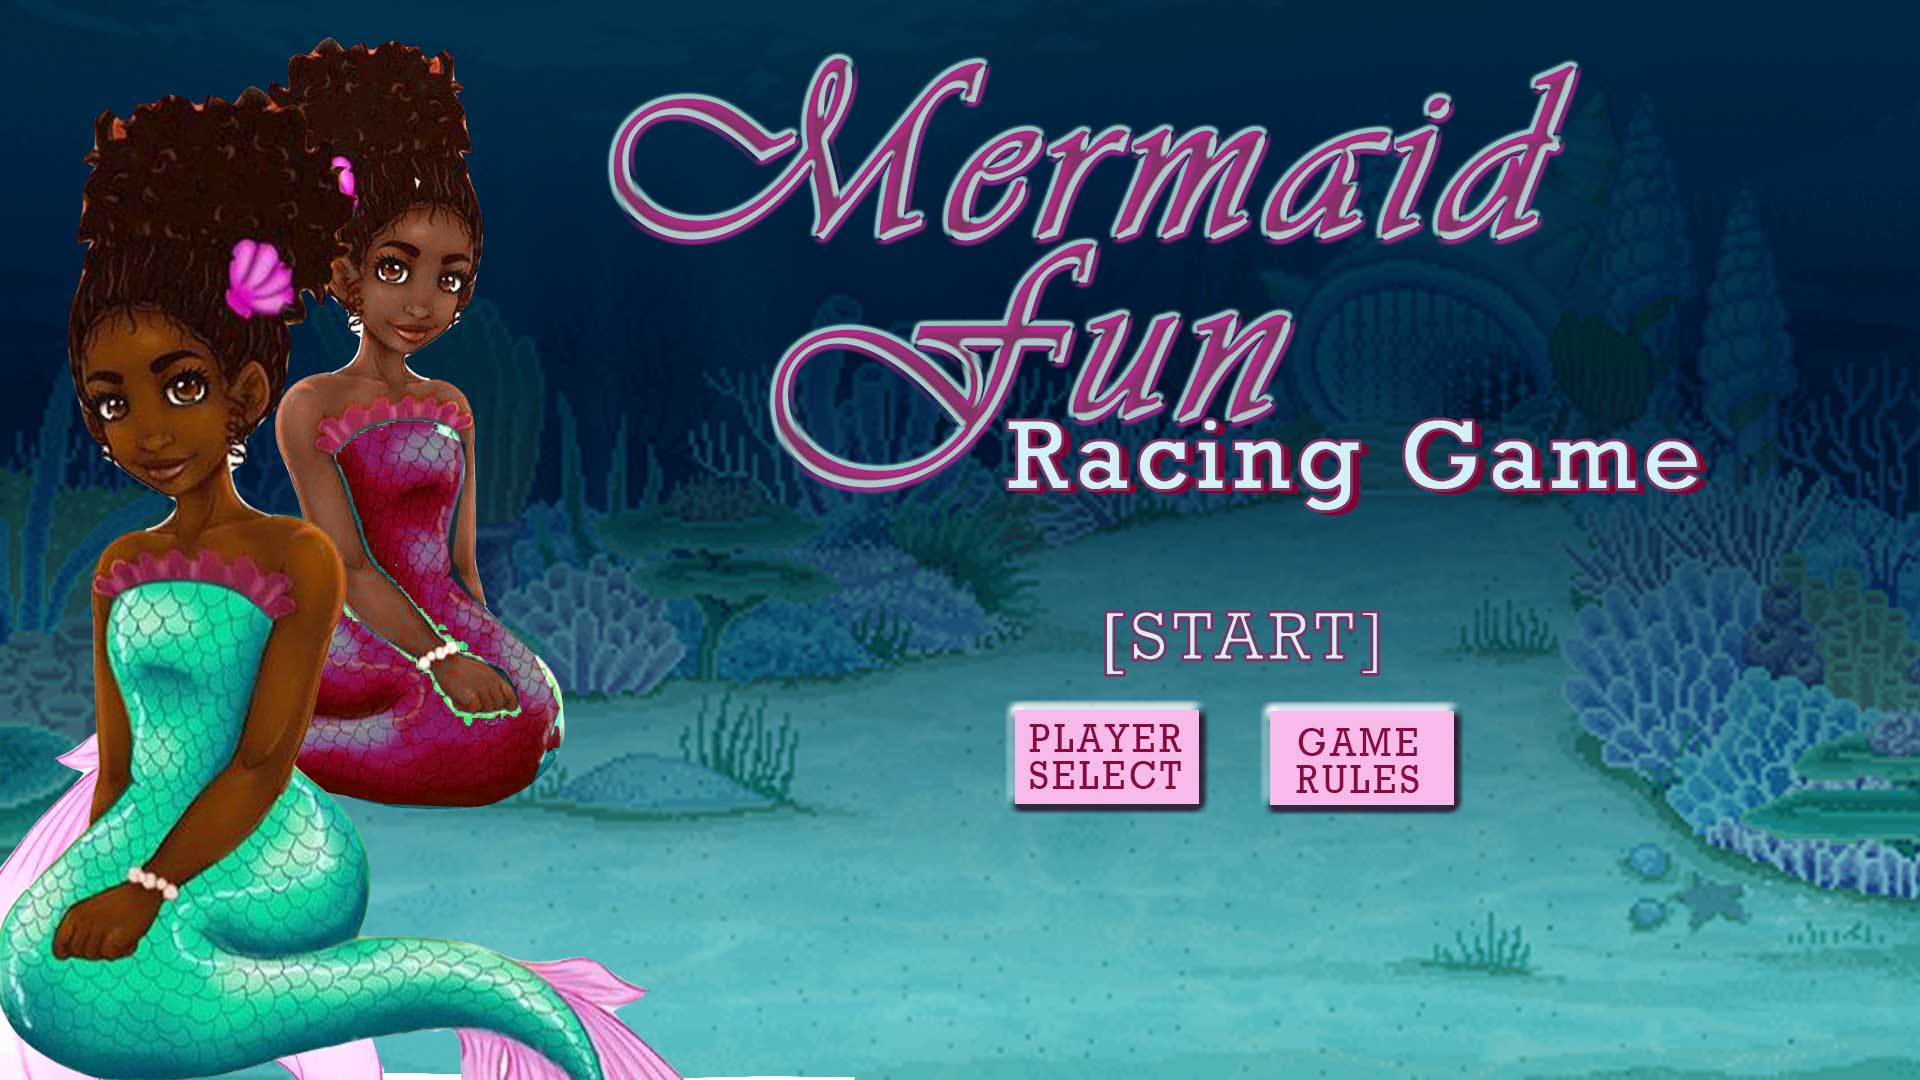
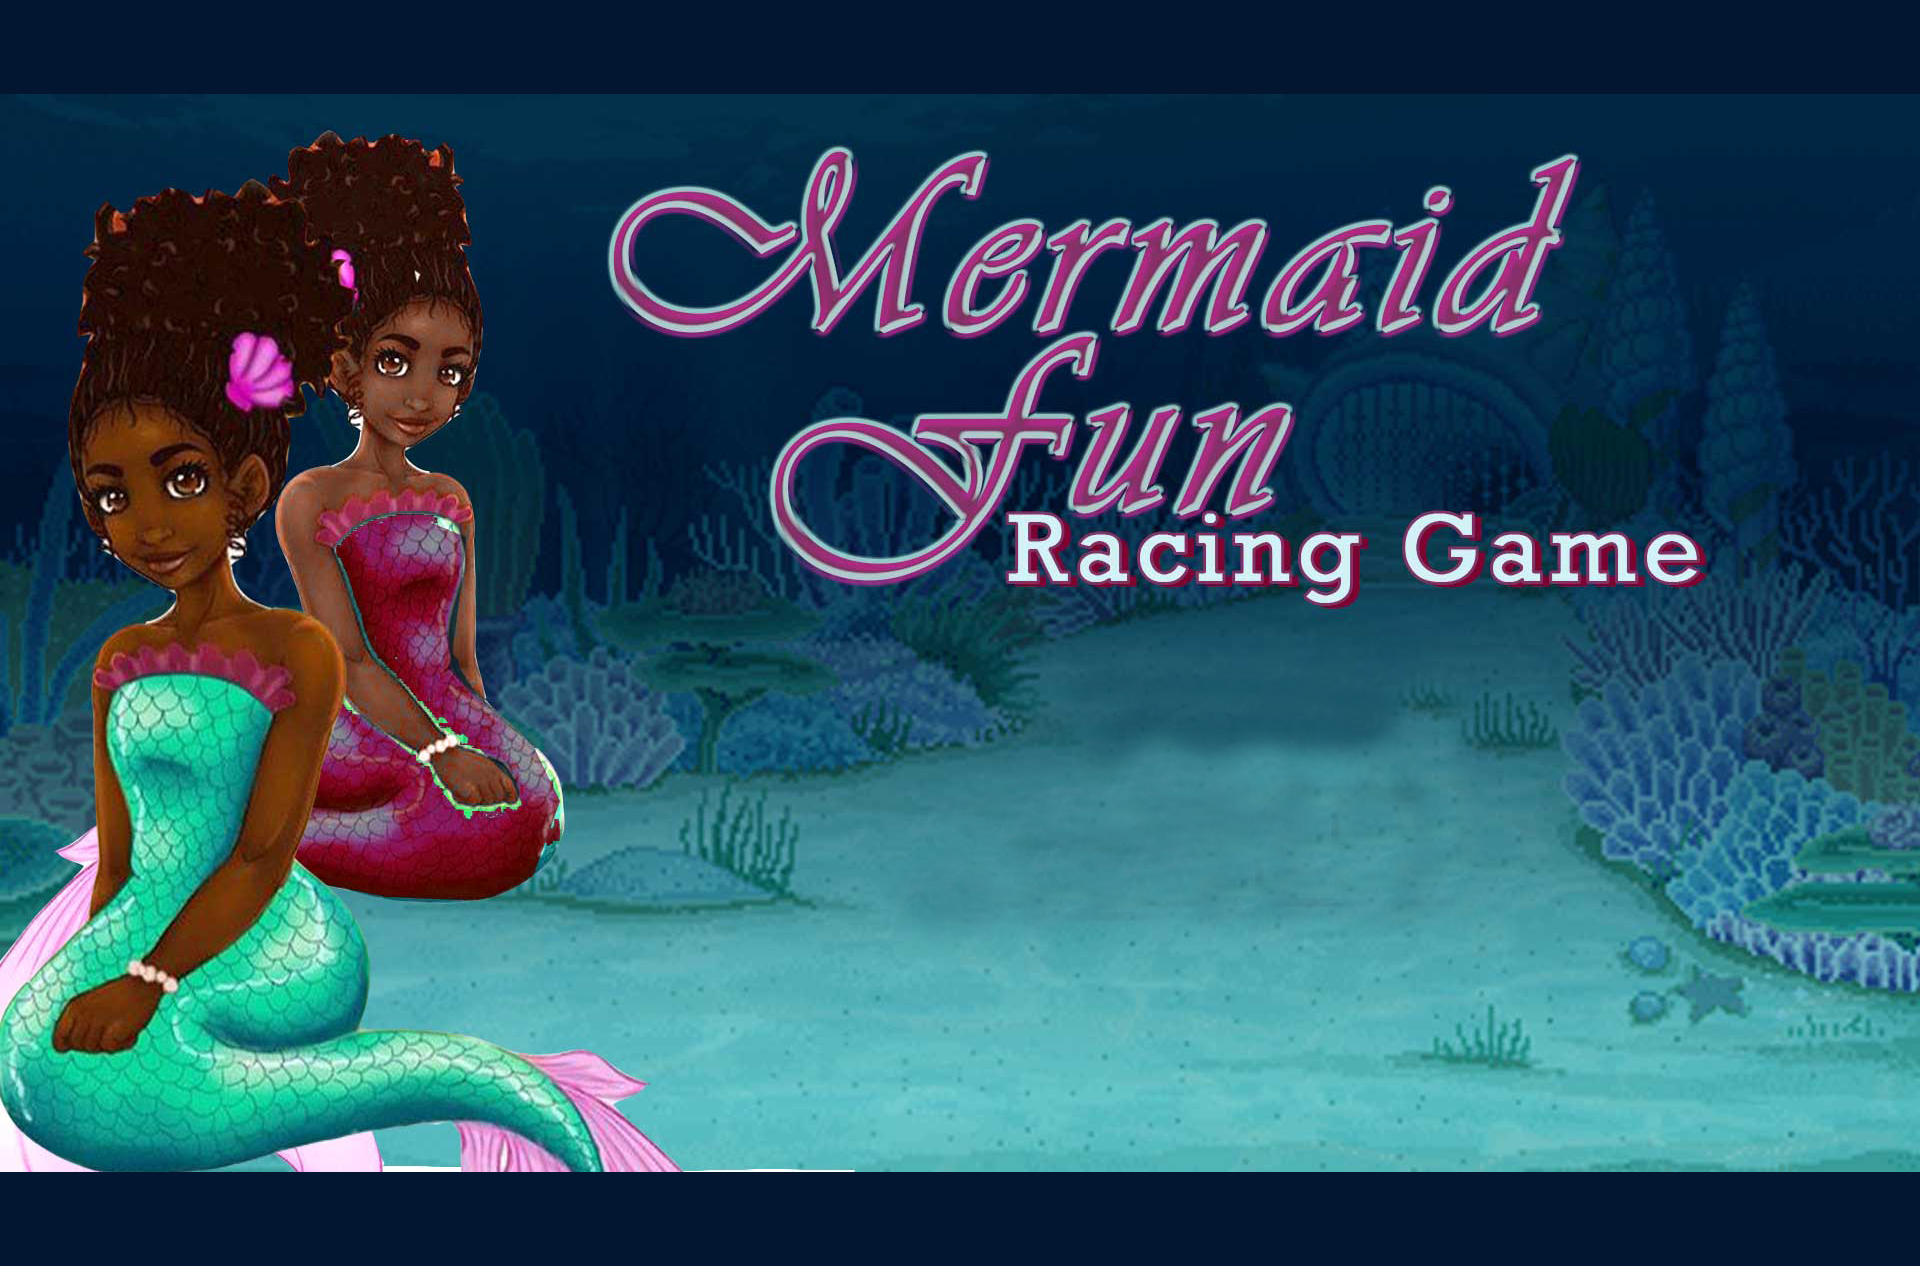
Intro page added, monsters and gem,s
worked on the canvas issues

diff --git a/script.js b/script.js
@@ -1,34 +1,42 @@
-var myGamePiece, myGems, myTraps, myHealing, myMines, myWeapons, myObsactles, myPortal, myMonsters;
-
+var myGamePiece, myGems, myTraps, myHealing, myMines, myWeapons, myObsactles, myPortal, myMonsters,dx;
 function startGame() {
+    // Variable declaration, the be made into object classes with keys & values in  v2.0
     myGameArea.start();
     myGamePiece = new component(60, 60, "images/sMaid.png", 10, 120, "image");
     myGems = new component(20, 20, "images/redGem.png", 480, 310, "image");
     myMonsters = new component(60, 60, "images/merWolf2.png", 650, 180, "image");
-    // myGems = new component(20, 20, "images/redGem.png", 480, 310, "image");
-    // myGems = new component(20, 20, "images/redGem.png", 480, 310, "image");
-    // myGems = new component(20, 20, "images/redGem.png", 480, 310, "image");
-
+    // myAccests = new component(20, 20, "images/redGem.png", 480, 310, "image");
+    // myObstacles = new component(20, 20, "images/redGem.png", 480, 310, "image");
+    // myChallenges = new component(20, 20, "images/redGem.png", 480, 310, "image");
 }
-
-var myGameArea = {
+    var myGameArea = {
     canvas : document.createElement("canvas"),
     start : function() {
         this.canvas.width = 960; //windows.innerwidth;
         this.canvas.height = 620; //windows.inner.height;
+
+        //this.canvas.style.cursor = "none";                              // <----- This hides the Cursor
         this.context = this.canvas.getContext("2d");
+
         document.body.insertBefore(this.canvas, document.body.childNodes[0]);
-        this.frameNo = 0;
+        this.frameNo = 1;
         this.interval = setInterval(updateGameArea,20);    
-        
-        window.addEventListener('keydown', function (e) {
-        myGameArea.key = e.keyCode;
-      })
-        window.addEventListener('keyup', function (e) {
-        myGameArea.key = false;
-      })
-   
+
+        /*window.addEventListener('mousemove', function (e) {            //<------- Listens for the Mouse
+            myGameArea.x = e.pageX;
+            myGameArea.y = e.pageY;
+        })*/
+
+        window.addEventListener('keydown', function (e) {               // Listens for the keyPress
+            myGameArea.keys = (myGameArea.keys || []);
+            myGameArea.keys[e.keyCode] = (e.type == "keydown");        //  This Tests for truthness and pass it along
+        })
+        window.addEventListener('keyup', function (e) {               //   Listens for the keyRelease  
+            myGameArea.keys[e.keyCode] = (e.type == "keydown");       //   This Tests for truthness and pass it along
+        })
     },
+
+
     clear : function() {
         this.context.clearRect(0, 0, this.canvas.width, this.canvas.height);
     },
@@ -62,7 +70,7 @@ function component(width, height, color, x, y, type) {
             ctx.fillRect(this.x, this.y, this.width, this.height);
         }
     }
-    this.newPos = function() {             // This exploite spedXY to change the component's position
+    this.newPos = function() {  //Here: speedX/Y changes componentPosition
         this.x += this.speedX;
         this.y += this.speedY;        
     }    
@@ -70,41 +78,40 @@ function component(width, height, color, x, y, type) {
 
 
 function updateGameArea() {
-    
+  // This accesses the arrow keys using thier key codes.
+  if (myGameArea.keys && myGameArea.keys == [37]) {myGamePiece.speedX = -1; }           //Left Arrow   [<]
+  if (myGameArea.keys && myGameArea.keys == [39]) {myGamePiece.speedX = 1; }            //Right Arrow  [>]
+  if (myGameArea.keys && myGameArea.keys == [38]) {myGamePiece.speedY = -1; }           //Up Arrow  [^]
+  if (myGameArea.keys && myGameArea.keys == [40]) {myGamePiece.speedY = 1; }            //Left Arrow  [v]
+ 
+////   Drag/Control element by Mouse  
+/*   if (myGameArea.x && myGameArea.y) {
+     myGamePiece.x = myGameArea.x;
+     myGamePiece.y = myGameArea.y;
+   }   */
+
     myGameArea.clear();
     myGamePiece.speedX = 0;
     myGamePiece.speedY = 0;
 
-    // This accesses the arrow keys using thier key codes.
-    if (myGameArea.key && myGameArea.key == 37) {myGamePiece.speedX = -1; } //Left Arrow   [<]
-    if (myGameArea.key && myGameArea.key == 39) {myGamePiece.speedX = 1; } //Right Arrow  [>]
-    if (myGameArea.key && myGameArea.key == 38) {myGamePiece.speedY = -1; } //Up Arrow  [^]
-    if (myGameArea.key && myGameArea.key == 40) {myGamePiece.speedY = 1; } //Left Arrow  [v]
+  
 
-    myGamePiece.newPos();                // Call new position
-    // myGamePiece.x+=1
-    myGamePiece.update();                //  Updates and draws it to canvas
+    myGamePiece.newPos();          // Call new position              // myGamePiece.x+=1
+    myGamePiece.update();         //  Updates and draws it to canvas
 
     myGems.newPos();
     myGems.update();
     
-    myMonsters.newPos();   
+    myMonsters.newPos();         
+    //myMonsters.x+=1   
     myMonsters.update();
     // myMonster.x+=1            Future updates includes monster object classes (aka: Mutliple monster types)  with the ability to move/chase mermaid.
     
     // redGem.newPos();
     // redGem.update();
+   
+    // myGamePiece.newPos();
+    // myGamePiece.update();
 
-
-    
-    
-    myGamePiece.newPos();
-    myGamePiece.update();
-
-
-
-    
-    
-    
   }
   

diff --git a/intro.html b/intro.html
@@ -1,0 +1,60 @@
+<!DOCTYPE html>
+<html>
+<head>
+<meta name="viewport" content="width=device-width, initial-scale=1">
+<style>
+#mySidenav a {
+  position: absolute;
+  left: -80px;
+  transition: 0.3s;
+  padding: 15px;
+  width: 100px;
+  text-decoration: none;
+  font-size: 20px;
+  color: white;
+  border-radius: 0 5px 5px 0;
+}
+body{
+    background-image: url("images/introPage.jpg")
+    /* background-image: size auto; */
+}
+
+
+#mySidenav a:hover {
+  left: 0;
+}
+
+#about {
+  top: 20px;
+  background-color: #4CAF50;
+}
+
+#blog {
+  top: 80px;
+  background-color: #2196F3;
+}
+
+#projects {
+  top: 140px;
+  background-color: #f44336;
+}
+
+#contact {
+  top: 200px;
+  background-color: #555
+}
+</style>
+</head>
+<body>
+
+
+<div id="mySidenav" class="sidenav">
+  <a href="index.html" id="about">Game Play Options'</a>
+  <a href="#" id="blog">Hall of Fame</a>
+  <a href="#" id="projects">Rule of Engagement</a>
+ 
+</div>
+
+
+</body>
+</html> 

diff --git a/style.css b/style.css
@@ -1,19 +1,21 @@
 body{
     background-color: #c3def7;
+    /* background-image: url("images/introPage.jpg"); */
     /* add background-sound/theme music in Phase2 */
 }
 
 canvas {
-padding: 0;
-margin: auto;
-display: flex;
-width: 90%;
-height: 90%;
-/* position:absolute; */
-border: 3px solid #04288d;
-background-size: 100%,100%;
-background-image: url("images/oceanic.gif");
-background-repeat:no-repeat;
-background-color: #05203a;
-margin-top:20px
+    padding: 0;
+    margin: auto;
+    display: flex;
+    width: 90%;
+    height: 90%;
+    /* position:absolute; */
+    border: 3px solid #04288d;
+    background-size: 100%,100%;
+    background-image: url("images/oceanic.gif");
+    background-repeat:no-repeat;
+    background-color: #05203a;
+    margin-top:20px
+    margin-bottom:20px;
 }
